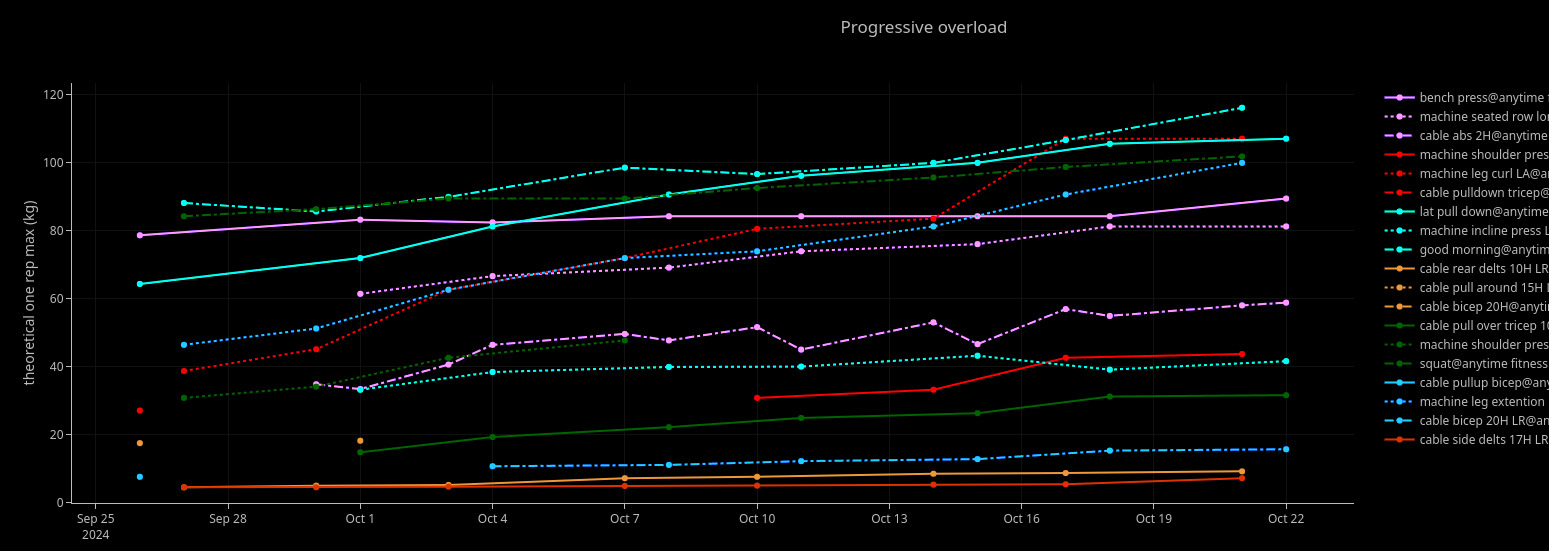
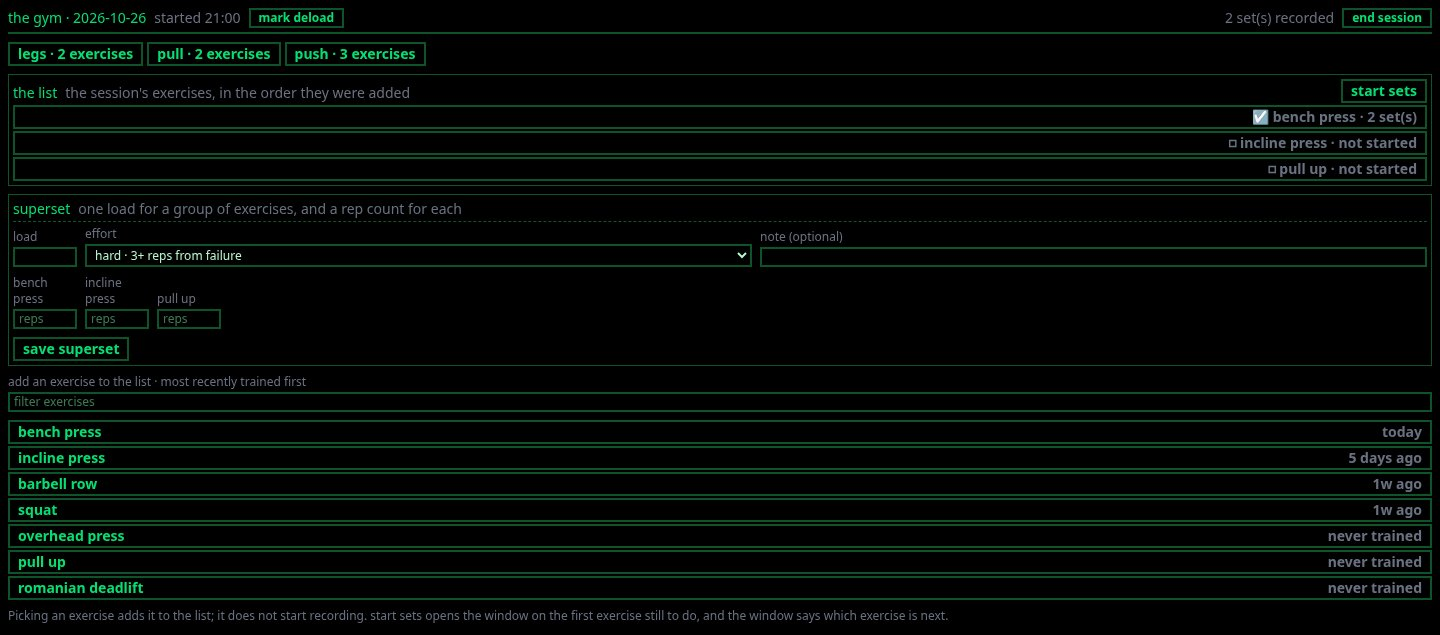
readme: screenshots of the web UI's three days and the analysis
The three images predate the web UI: they were the terminal output of the old
TOML version. Replace them with a captured day each of gym, food and weight,
plus the analysis page, and say in the introduction that the browser reads the
same database file.

Changed region(s): [[0.0, 0.0, 1.0, 0.9873]]

diff --git a/README.md b/README.md
@@ -2,11 +2,13 @@
 
 A local-first fitness tracker for progressive overload, body weight and food.
 It records your training sets, weigh-ins and meals in one [SQLite][sqlite] file
-on your machine, with no server and no account.
+on your machine, with no server and no account. `gym web` reads the same file
+in a browser, on loopback.
 
-![Progressive overload (mixed)](i/0.jpg)
-![Progressive overload (single)](i/1.jpg)
-![Weight and bodyfat](i/2.jpg)
+![The gym day: an open session, the exercises on it, and the next exercise to record](i/0.jpg)
+![The food day: calories and macros against maintenance, and the meals behind them](i/1.jpg)
+![The weight day: the last weigh-in, the trend, and the recent ones](i/2.jpg)
+![The analysis: an exercise's estimated 1RM against the weekly volume](i/3.jpg)
 
 [sqlite]: https://sqlite.org
 
